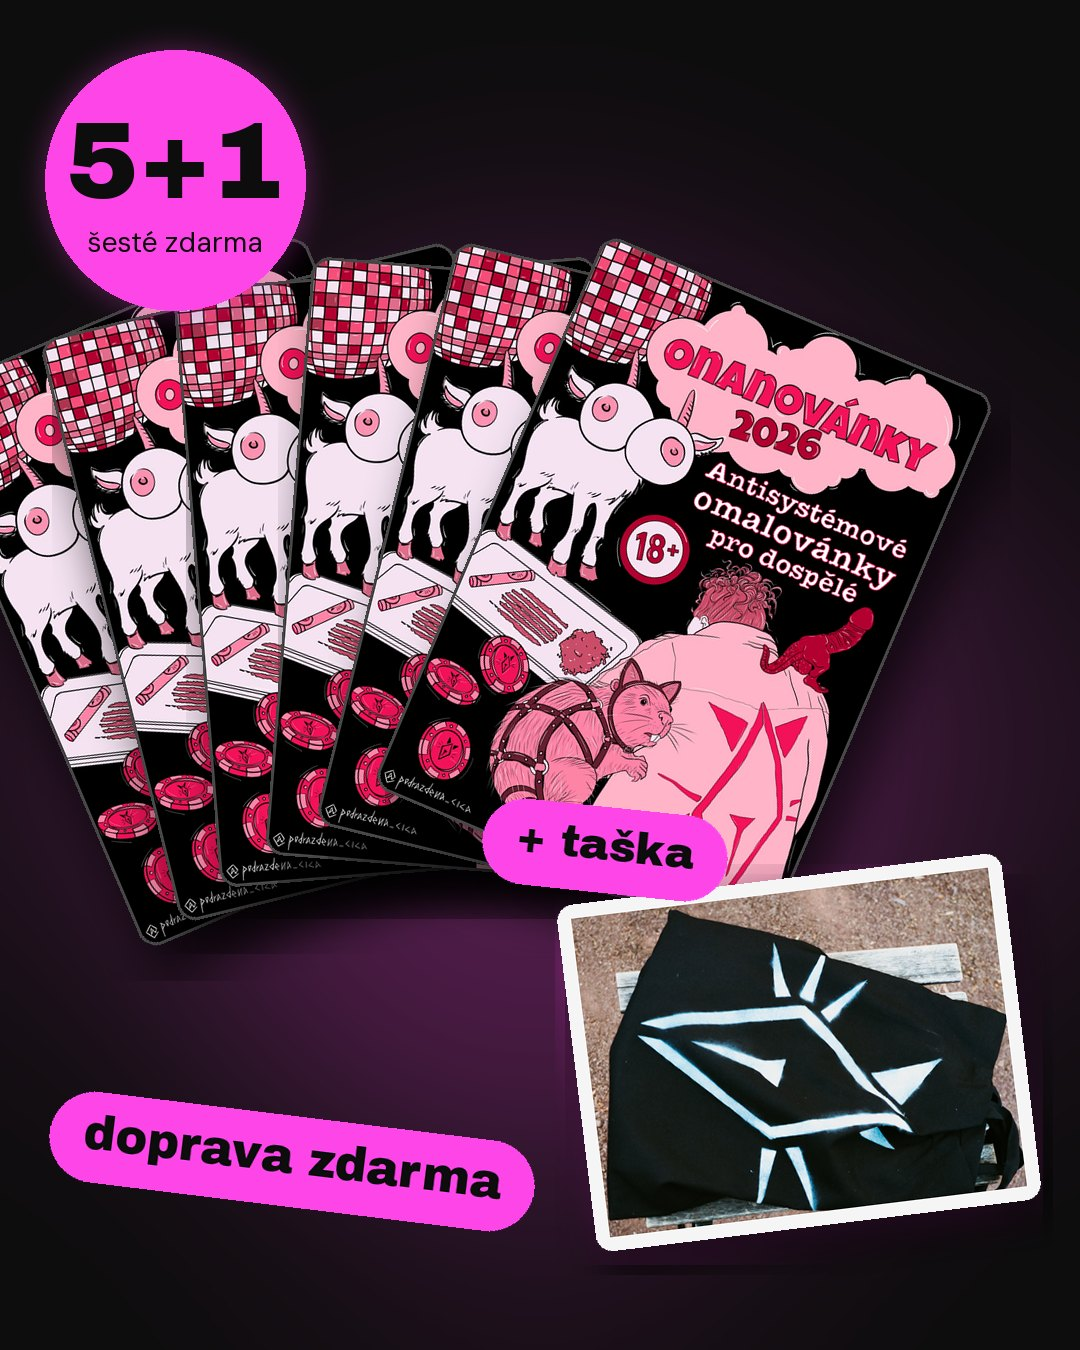
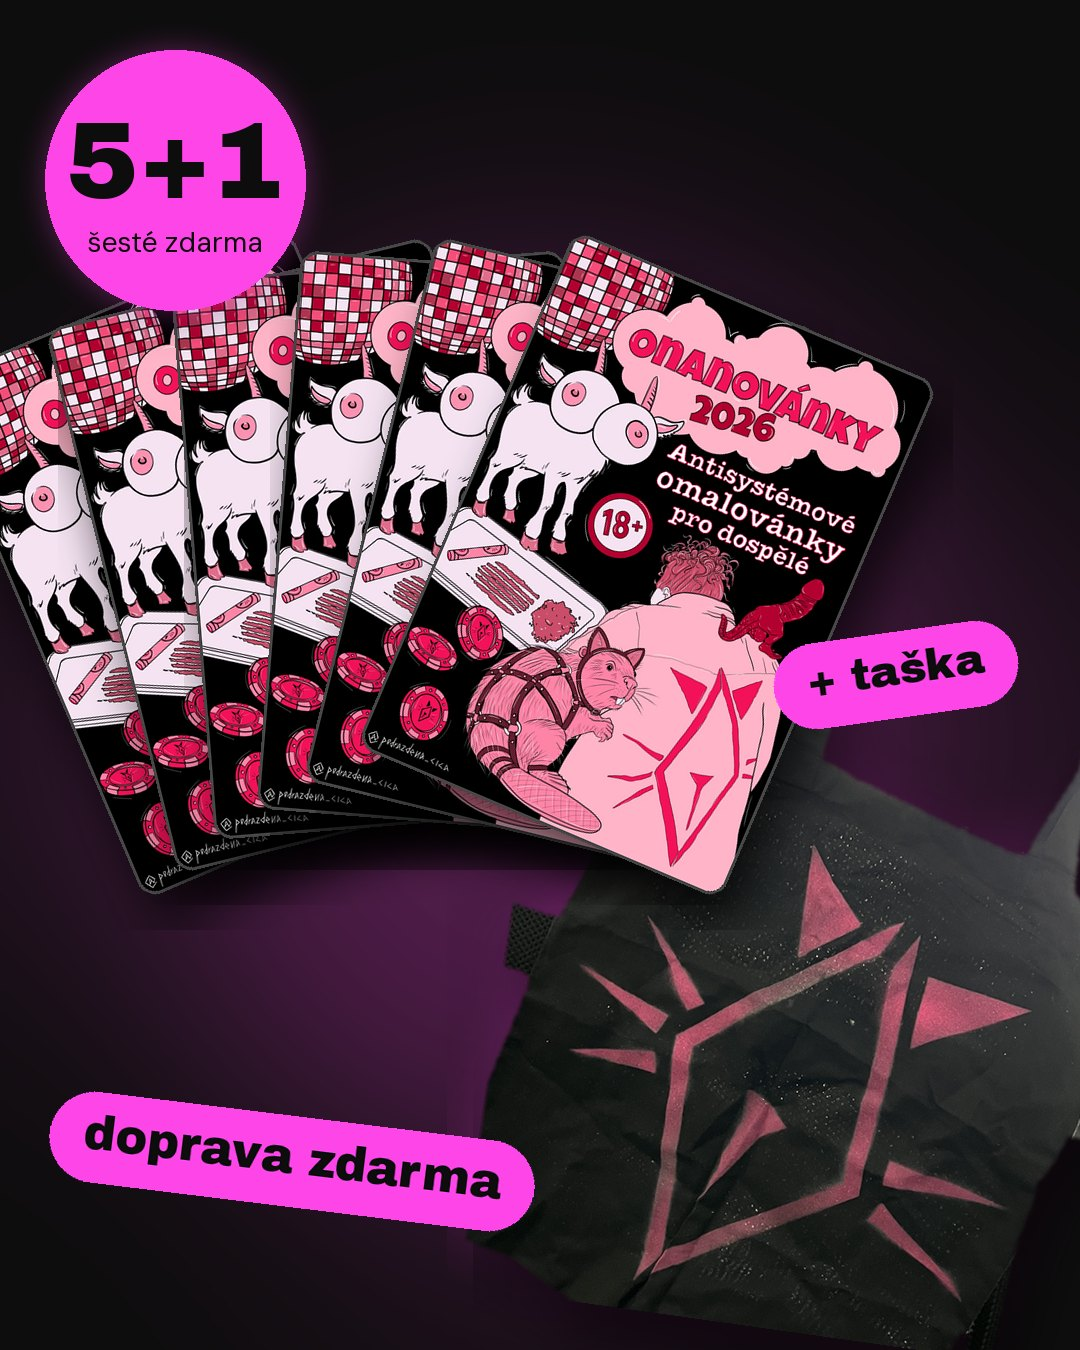
Onanovánky: nabídka balíčku od 3 a 5 kusů, obrázek 5+1 se skutečnou taškou
- Košík: u 1 až 2 kusů jen tip, od 3 kusů tlačítko Vyměnit za balíček 3+1
  (u 3 kusů „čtvrtý kus zdarma“), od 5 kusů Vyměnit za balíček 5+1
- Obrázek balíčku 5+1: vyříznutá taška z fotky „číča taška.JPG“ (černé plátno,
  růžová číča) zasunutá za vějíř obálek; výřez dělá Web/Onanovánky/bannery/vyrez_tasky.py

diff --git a/onanovanky.html b/onanovanky.html
@@ -1341,10 +1341,11 @@
         function upsell() {
             const singles = (cart.items.find(i => i.id === 'onanovanky') || { qty: 0 }).qty;
             const has3 = cart.items.some(i => i.id === 'balicek-3plus1' && i.qty > 0);
+            // Prahy podle Davida: od 3 kusů doporučit balíček 3+1, od 5 kusů 5+1, u 1 až 2 kusů jen tip
             if (giftBag()) return { text: 'Taška je tvoje. Plátěná, ručně sprejovaná, v balíku zdarma.', ok: true };
             if (singles >= 5) return { id: 'balicek-5plus1', text: ks(singles) + ' samostatně = ' + czk(singles * UNIT_PRICE) + '. Balíček 5+1 = šest kusů za 1 666 Kč, k tomu taška a doprava zdarma.', button: 'Vyměnit za balíček 5+1' };
-            if (singles >= 2) return { id: 'balicek-3plus1', text: ks(singles) + ' samostatně = ' + czk(singles * UNIT_PRICE) + '. Balíček 3+1 = čtyři kusy za 999 Kč.', button: 'Vyměnit za balíček 3+1' };
-            if (singles === 1 && !has3) return { text: 'Tip: čtyři kusy v balíčku 3+1 za 999 Kč, šest kusů s taškou a dopravou zdarma v balíčku 5+1.' };
+            if (singles >= 3) return { id: 'balicek-3plus1', text: ks(singles) + ' samostatně = ' + czk(singles * UNIT_PRICE) + '. Balíček 3+1 = čtyři kusy za 999 Kč' + (singles === 3 ? ', tedy čtvrtý kus zdarma.' : '.'), button: 'Vyměnit za balíček 3+1' };
+            if (singles >= 1 && !has3) return { text: 'Tip: čtyři kusy v balíčku 3+1 za 999 Kč, šest kusů s taškou a dopravou zdarma v balíčku 5+1.' };
             if (has3) return { text: 'Šest kusů, taška a doprava zdarma: to je balíček 5+1 za 1 666 Kč.' };
             return null;
         }
